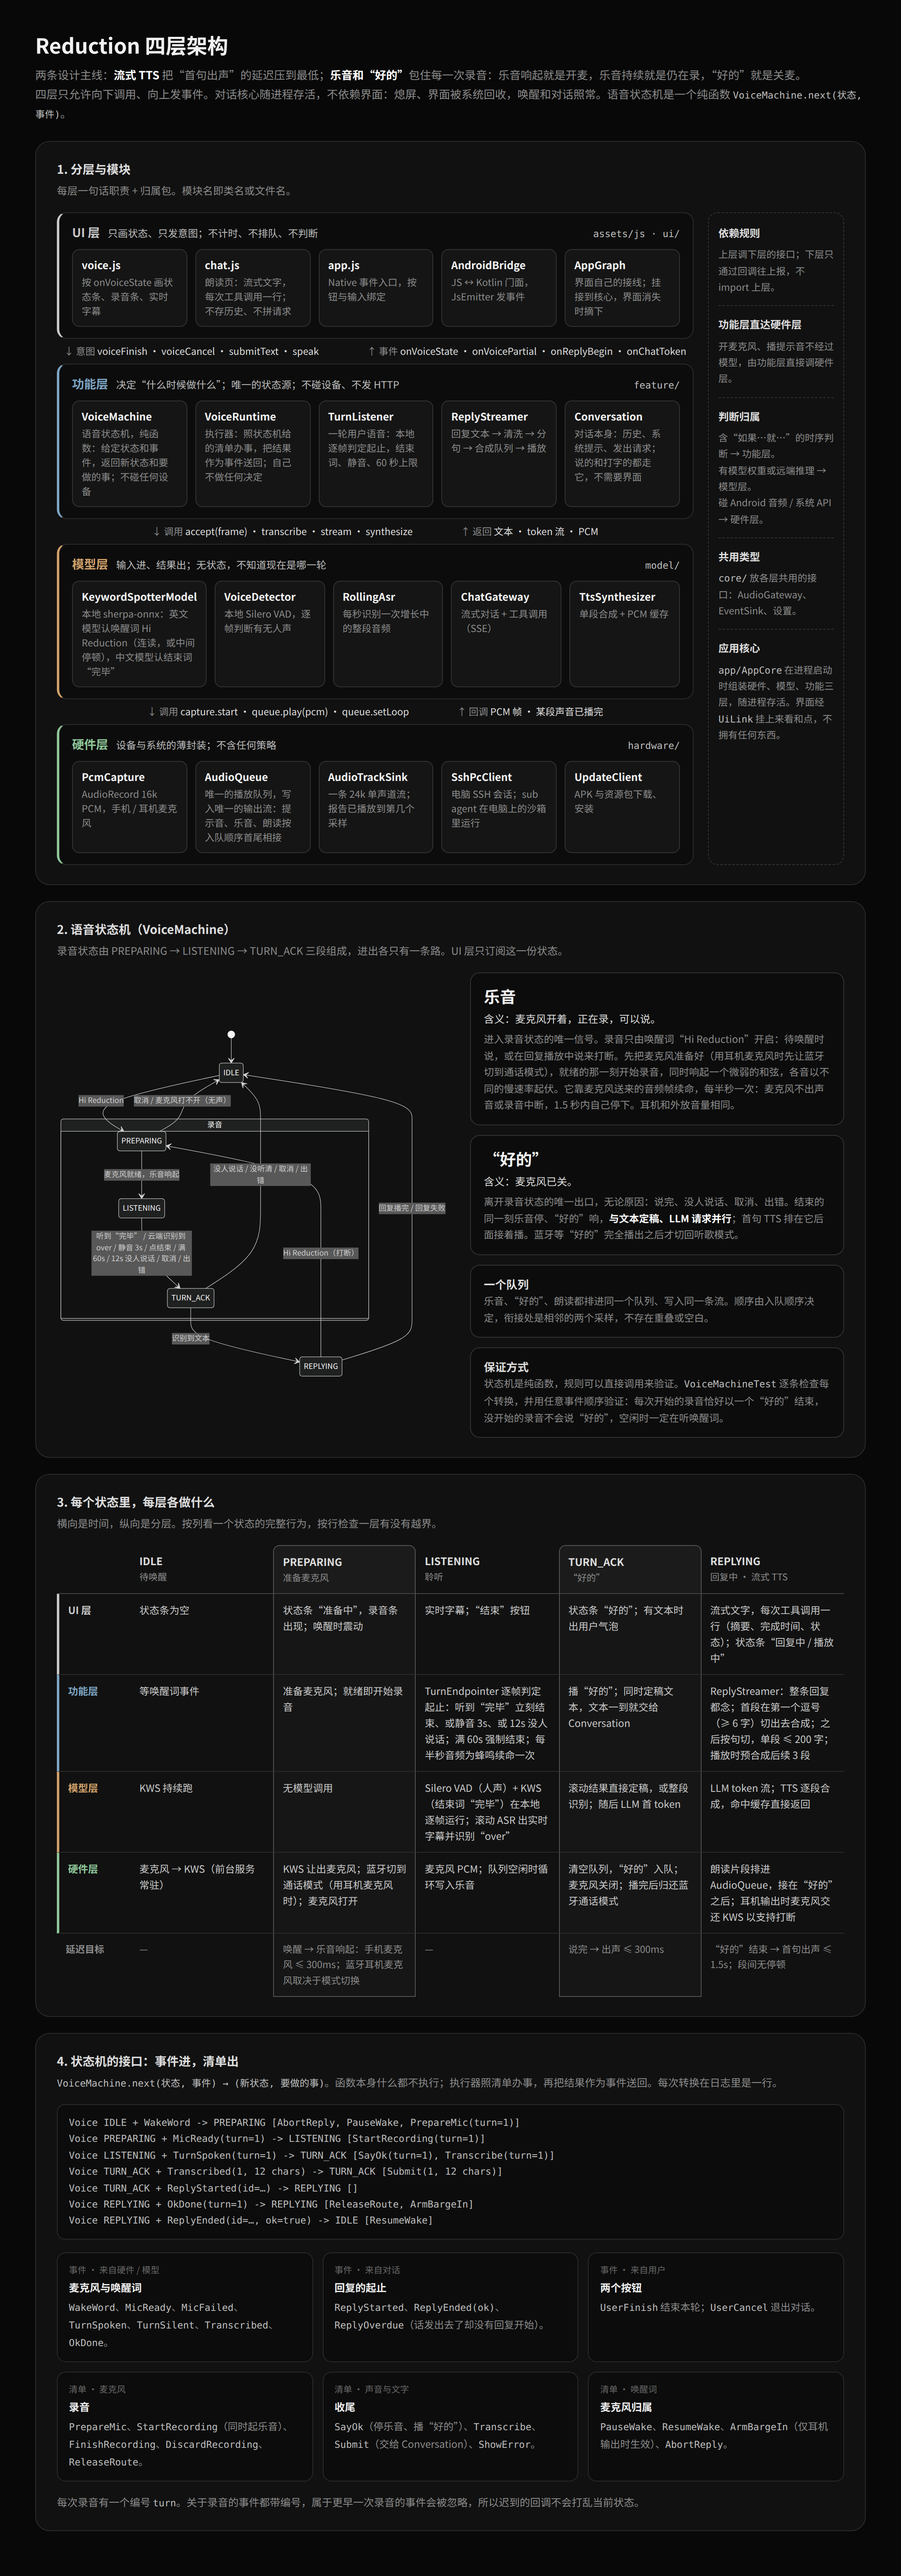
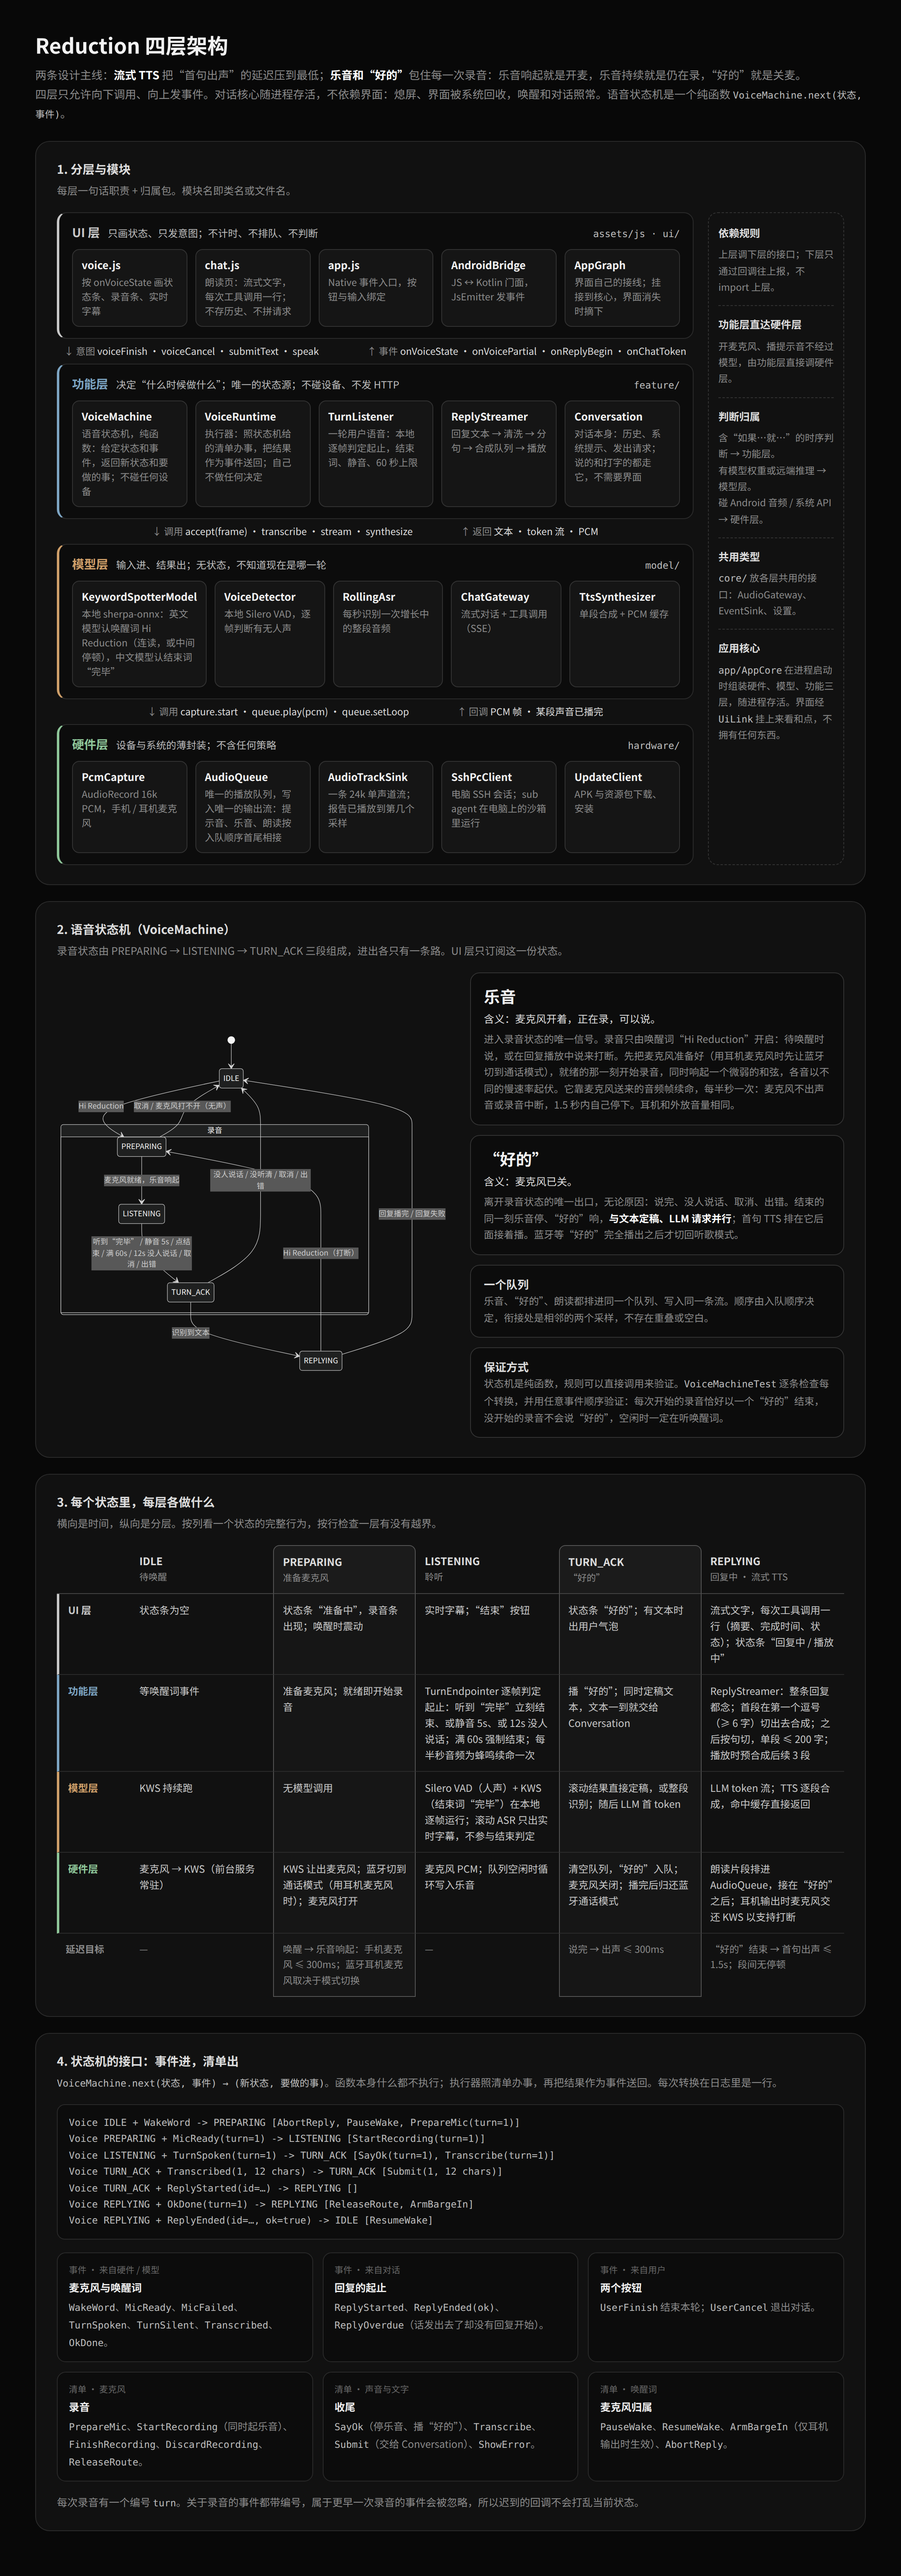
v1.0.46: only the device ends a recording; five seconds of silence, not three
Recordings were being closed mid-sentence. The phone's own recordings show two causes:
- the live caption path ended turns one to two seconds into a pause (5 of 12 turns)
- three seconds of silence is shorter than this speaker's pauses for thought (2 more)

- A turn ends only on device signals: the end word "完毕", silence, the finish button, the 60 s cap.
  The rolling transcript is used for the live caption and nothing else
- Silence allowance is five seconds
- EndWords only strips a closing end word from a transcript
- Log and recording shipping cannot start twice
- docs: opening animation as a GIF

diff --git a/app/src/main/java/com/mindtravel/reduction/feature/voice/TurnListener.kt b/app/src/main/java/com/mindtravel/reduction/feature/voice/TurnListener.kt
@@ -12,9 +12,9 @@ import kotlinx.coroutines.launch
 import kotlinx.coroutines.withContext
 
 /**
- * Captures one user turn. The recorder decides on the device when the turn starts and
- * ends; the growing audio is also transcribed every second for the live caption, and
- * an end word seen there ends the turn too. Events arrive on the main thread.
+ * Captures one user turn. The recorder decides on the device, from the audio alone, when
+ * the turn starts and ends. The growing audio is also transcribed every second, but only
+ * for the live caption: a transcript never ends a turn. Events arrive on the main thread.
  */
 class TurnListener(
     private val audioGateway: AudioGateway,
@@ -43,11 +43,11 @@ class TurnListener(
     class Turn(
         val text: String,
         val wav: ByteArray?,
-        internal val apiKey: String,
-        internal val trustText: Boolean
+        internal val apiKey: String
     )
 
-    private val detector = TurnDetector()
+    /** The latest live caption: what is kept if the final transcription fails. */
+    private var caption = ""
     private var token = 0
     private var apiKey = ""
     private var events: Events? = null
@@ -93,7 +93,7 @@ class TurnListener(
             onEnd = { reason ->
                 onMain(current) {
                     Logs.add("Turn ended locally: $reason")
-                    end(events, detector.currentText(), trustText = false)
+                    end(events)
                 }
             },
             onTimeout = {
@@ -110,7 +110,7 @@ class TurnListener(
     /** Ends the turn now and reports it through [Events.onTurnEnd]. */
     override fun finishNow() {
         val current = events ?: return
-        end(current, detector.currentText(), trustText = false)
+        end(current)
     }
 
     override fun cancel() {
@@ -139,7 +139,6 @@ class TurnListener(
     }
 
     private suspend fun finalText(turn: Turn): String {
-        if (turn.trustText && turn.text.isNotBlank()) return turn.text
         val wav = turn.wav ?: return turn.text
         return try {
             val raw = withContext(Dispatchers.IO) { audioGateway.transcribe(turn.apiKey, wav) }
@@ -156,8 +155,8 @@ class TurnListener(
         rollingAsr.start(
             apiKey = apiKey,
             snapshot = { recorder.snapshotWav() },
-            onResult = { text, snapshotAt ->
-                if (current == token) onRollingResult(events, text, snapshotAt)
+            onResult = { text, _ ->
+                if (current == token) onRollingResult(events, text)
             },
             onError = { message -> Logs.add("Rolling ASR error: $message") }
         )
@@ -166,24 +165,24 @@ class TurnListener(
             delay(MAX_TURN_MS)
             if (current == token) {
                 Logs.add("Turn reached the ${MAX_TURN_MS / 1000}s cap")
-                end(events, detector.currentText(), trustText = false)
+                end(events)
             }
         }
     }
 
-    private fun onRollingResult(events: Events, text: String?, snapshotAt: Long) {
-        val hasVoice = recorder.hasVoiceSince(snapshotAt)
-        val decision = detector.evaluate(text, hasVoice)
-        if (!text.isNullOrBlank()) events.onPartial(stripEndWord(text))
-        if (decision is TurnDetector.Decision.End) end(events, decision.text, trustText = true)
+    private fun onRollingResult(events: Events, text: String?) {
+        if (text.isNullOrBlank()) return
+        caption = text
+        events.onPartial(stripEndWord(text))
     }
 
-    private fun end(events: Events, text: String, trustText: Boolean) {
+    private fun end(events: Events) {
         val key = apiKey
+        val heard = caption
         events.onTurnEnding(heard = speechStarted)
         reset(cancelRecorder = false)
         val wav = recorder.stop()
-        events.onTurnEnd(Turn(stripEndWord(text), wav, key, trustText))
+        events.onTurnEnd(Turn(stripEndWord(heard), wav, key))
     }
 
     private fun fail(events: Events, message: String) {
@@ -196,7 +195,7 @@ class TurnListener(
         rollingAsr.stop()
         capJob?.cancel()
         capJob = null
-        detector.reset()
+        caption = ""
         speechStarted = false
         apiKey = ""
         events = null
@@ -207,7 +206,7 @@ class TurnListener(
         scope.launch(Dispatchers.Main) { if (current == token) block() }
     }
 
-    private fun stripEndWord(raw: String): String = (detector.stripEndWord(raw) ?: raw).trim()
+    private fun stripEndWord(raw: String): String = (EndWords.strip(raw) ?: raw).trim()
 
     companion object {
         /** Longest a single turn may run before it is ended automatically. */

diff --git a/docs/interaction-states-simple.html b/docs/interaction-states-simple.html
@@ -182,7 +182,7 @@ stateDiagram-v2
     IDLE --> PREPARING: Hi Reduction
     state "录音" as REC {
         PREPARING --> LISTENING: 麦克风就绪，乐音响起
-        LISTENING --> TURN_ACK: 听到“完毕” / 云端识别到 over / 静音 3s / 点结束 / 满 60s / 12s 没人说话 / 取消 / 出错
+        LISTENING --> TURN_ACK: 听到“完毕” / 静音 5s / 点结束 / 满 60s / 12s 没人说话 / 取消 / 出错
     }
     PREPARING --> IDLE: 取消 / 麦克风打不开（无声）
     TURN_ACK --> REPLYING: 识别到文本
@@ -241,7 +241,7 @@ stateDiagram-v2
           <th class="row" style="--c:var(--fn)">功能层</th>
           <td>等唤醒词事件</td>
           <td class="ack">准备麦克风；就绪即开始录音</td>
-          <td>TurnEndpointer 逐帧判定起止：听到“完毕”立刻结束、或静音 3s、或 12s 没人说话；满 60s 强制结束；每半秒音频为蜂鸣续命一次</td>
+          <td>TurnEndpointer 逐帧判定起止：听到“完毕”立刻结束、或静音 5s、或 12s 没人说话；满 60s 强制结束；每半秒音频为蜂鸣续命一次</td>
           <td class="ack">播“好的”；同时定稿文本，文本一到就交给 Conversation</td>
           <td>ReplyStreamer：整条回复都念；首段在第一个逗号（≥ 6 字）切出去合成；之后按句切，单段 ≤ 200 字；播放时预合成后续 3 段</td>
         </tr>
@@ -249,7 +249,7 @@ stateDiagram-v2
           <th class="row" style="--c:var(--md)">模型层</th>
           <td>KWS 持续跑</td>
           <td class="ack">无模型调用</td>
-          <td>Silero VAD（人声）+ KWS（结束词“完毕”）在本地逐帧运行；滚动 ASR 出实时字幕并识别“over”</td>
+          <td>Silero VAD（人声）+ KWS（结束词“完毕”）在本地逐帧运行；滚动 ASR 只出实时字幕，不参与结束判定</td>
           <td class="ack">滚动结果直接定稿，或整段识别；随后 LLM 首 token</td>
           <td>LLM token 流；TTS 逐段合成，命中缓存直接返回</td>
         </tr>

diff --git a/app/src/main/java/com/mindtravel/reduction/feature/voice/EndWords.kt b/app/src/main/java/com/mindtravel/reduction/feature/voice/EndWords.kt
@@ -1,0 +1,27 @@
+package com.mindtravel.reduction.feature.voice
+
+/**
+ * The words that close a turn when said last: "完毕" and "over". They are not part of
+ * what the user meant, so they are taken off the end of a transcript.
+ *
+ * Taking them off is all that happens here. Ending a recording is decided on the device,
+ * from the audio itself; a transcript never ends one.
+ */
+object EndWords {
+    private val words = listOf("over", "完毕")
+
+    /** [text] without a closing end word, or null when it does not end with one. */
+    fun strip(text: String): String? {
+        val trimmed = text.trim()
+        for (word in words) {
+            val wordPattern = word.toCharArray().joinToString("\\s*") { Regex.escape(it.toString()) }
+            val pattern = Regex(
+                "^(.*?)[\\s，,、]*" + wordPattern + "[。！？!?，,、.．…\\s]*$",
+                setOf(RegexOption.DOT_MATCHES_ALL, RegexOption.IGNORE_CASE)
+            )
+            val match = pattern.matchEntire(trimmed) ?: continue
+            return match.groupValues[1].trim().trimEnd('，', ',', '、', '。', '．', '.', '…', '！', '!', '？', '?', ' ', '\n')
+        }
+        return null
+    }
+}

diff --git a/app/src/test/java/com/mindtravel/reduction/feature/voice/TurnEndpointerTest.kt b/app/src/test/java/com/mindtravel/reduction/feature/voice/TurnEndpointerTest.kt
@@ -33,14 +33,21 @@ class TurnEndpointerTest {
 
     @Test
     fun aThinkingPauseDoesNotEndTheTurn() {
-        val decisions = run("sss" + ".".repeat(25) + "sss")
+        // 4.9 seconds of looking for the next word, then the sentence goes on.
+        val decisions = run("sss" + ".".repeat(48) + "sss")
         assertEquals(listOf(Decision.SPEECH_STARTED), decisions.map { it.second })
     }
 
     @Test
-    fun aLongSilenceAfterSpeechEndsTheTurn() {
-        val decisions = run("sss" + ".".repeat(30))
-        assertEquals(3300L to Decision.END_BY_SILENCE, decisions.last())
+    fun fiveSecondsOfSilenceAfterSpeechEndTheTurn() {
+        val decisions = run("sss" + ".".repeat(50))
+        assertEquals(5300L to Decision.END_BY_SILENCE, decisions.last())
+    }
+
+    @Test
+    fun everyPauseIsMeasuredFromTheLastSpeech() {
+        val decisions = run("sss" + ".".repeat(40) + "s" + ".".repeat(40) + "s" + ".".repeat(50))
+        assertEquals(13_500L to Decision.END_BY_SILENCE, decisions.last())
     }
 
     @Test

diff --git a/app/src/test/java/com/mindtravel/reduction/feature/voice/EndWordsTest.kt b/app/src/test/java/com/mindtravel/reduction/feature/voice/EndWordsTest.kt
@@ -1,0 +1,28 @@
+package com.mindtravel.reduction.feature.voice
+
+import org.junit.Assert.assertEquals
+import org.junit.Assert.assertNull
+import org.junit.Test
+
+class EndWordsTest {
+
+    @Test
+    fun aClosingEndWordIsTakenOff() {
+        assertEquals("打开设置", EndWords.strip("打开设置，完毕。"))
+        assertEquals("打开设置", EndWords.strip("打开设置 over"))
+        assertEquals("Open settings", EndWords.strip("Open settings, O V E R."))
+    }
+
+    @Test
+    fun anEndWordAloneLeavesNothing() {
+        assertEquals("", EndWords.strip("over"))
+        assertEquals("", EndWords.strip("完毕。"))
+    }
+
+    @Test
+    fun textThatDoesNotEndWithOneIsLeftAlone() {
+        assertNull(EndWords.strip("打开设置"))
+        assertNull(EndWords.strip("完毕之后再说一句"))
+        assertNull(EndWords.strip(""))
+    }
+}

diff --git a/app/src/main/java/com/mindtravel/reduction/feature/voice/PushToTalkSession.kt b/app/src/main/java/com/mindtravel/reduction/feature/voice/PushToTalkSession.kt
@@ -23,7 +23,6 @@ class PushToTalkSession(
     private val scope: CoroutineScope
 ) {
     private val finishing = AtomicBoolean(false)
-    private val endDetector = TurnDetector()
 
     fun start(id: String) {
         if (wavRecorder.isRecording() || finishing.get()) {
@@ -37,7 +36,6 @@ class PushToTalkSession(
             return
         }
 
-        endDetector.reset()
         val useHeadset = settings.headsetMicEnabled && headsetMic.start()
         val started = wavRecorder.start(useCommunicationSource = useHeadset) {
             emitter.emit("onRecordingLimit", id)
@@ -106,7 +104,7 @@ class PushToTalkSession(
     }
 
     private fun clean(raw: String): String {
-        val body = endDetector.stripEndWord(raw)
+        val body = EndWords.strip(raw)
         return (body ?: raw).trim()
     }
 }

diff --git a/app/src/main/java/com/mindtravel/reduction/feature/pc/ui/PcController.kt b/app/src/main/java/com/mindtravel/reduction/feature/pc/ui/PcController.kt
@@ -178,6 +178,7 @@ class PcController(
      * While connected, appends the app's log to a file on the computer every few seconds,
      * so what happened on the phone can be read there.
      */
+    @Synchronized
     private fun startLogShipping(profile: PcProfile) {
         if (logJob?.isActive == true) return
         logJob = scope.launch(Dispatchers.IO) {
@@ -205,6 +206,7 @@ class PcController(
      * While connected, hands every kept recording over to the computer, oldest first. A
      * recording leaves the phone only after the computer holds all of it.
      */
+    @Synchronized
     private fun startRecordingShipping(profile: PcProfile) {
         if (recordingJob?.isActive == true) return
         recordingJob = scope.launch(Dispatchers.IO) {

diff --git a/app/src/main/java/com/mindtravel/reduction/hardware/update/AssetUpdater.kt b/app/src/main/java/com/mindtravel/reduction/hardware/update/AssetUpdater.kt
@@ -26,7 +26,7 @@ class AssetUpdater(
          * The app version whose JS bridge the web assets must be written for.
          * A pack declaring a lower assetsMinVersionCode targets an earlier bridge and is not used.
          */
-        const val BRIDGE_VERSION_CODE = 75
+        const val BRIDGE_VERSION_CODE = 76
         private const val MAX_TOTAL_BYTES = 80L * 1024 * 1024
 
         fun activeDir(context: Context): File? {

diff --git a/app/src/main/java/com/mindtravel/reduction/feature/voice/TurnEndpointer.kt b/app/src/main/java/com/mindtravel/reduction/feature/voice/TurnEndpointer.kt
@@ -8,7 +8,7 @@ package com.mindtravel.reduction.feature.voice
  */
 class TurnEndpointer(
     private val noSpeechTimeoutMs: Long = 12_000,
-    private val trailingSilenceMs: Long = 3_000
+    private val trailingSilenceMs: Long = 5_000
 ) {
     enum class Decision { CONTINUE, SPEECH_STARTED, NO_SPEECH, END_BY_WORD, END_BY_SILENCE }
 

diff --git a/app/src/main/assets/js/features/voice/voice.js b/app/src/main/assets/js/features/voice/voice.js
@@ -6,7 +6,7 @@ import * as ui from '../../ui/ui.js';
 
 // ── Hands-free: the app owns the state machine; this only draws it. ─────────
 
-const LISTENING_HINT = '说完请说：over';
+const LISTENING_HINT = '说完请说：完毕';
 
 export function isHandsFree() {
   return state.voice !== 'IDLE';

diff --git a/app/src/main/java/com/mindtravel/reduction/feature/voice/TurnRecorder.kt b/app/src/main/java/com/mindtravel/reduction/feature/voice/TurnRecorder.kt
@@ -135,8 +135,6 @@ class TurnRecorder(
         return WavEncoder.pcm16ToWav(data)
     }
 
-    fun hasVoiceSince(timestampMs: Long): Boolean = endpointer.lastVoiceAt > timestampMs
-
     fun cancel() {
         turn = null
         capture.cancel()
